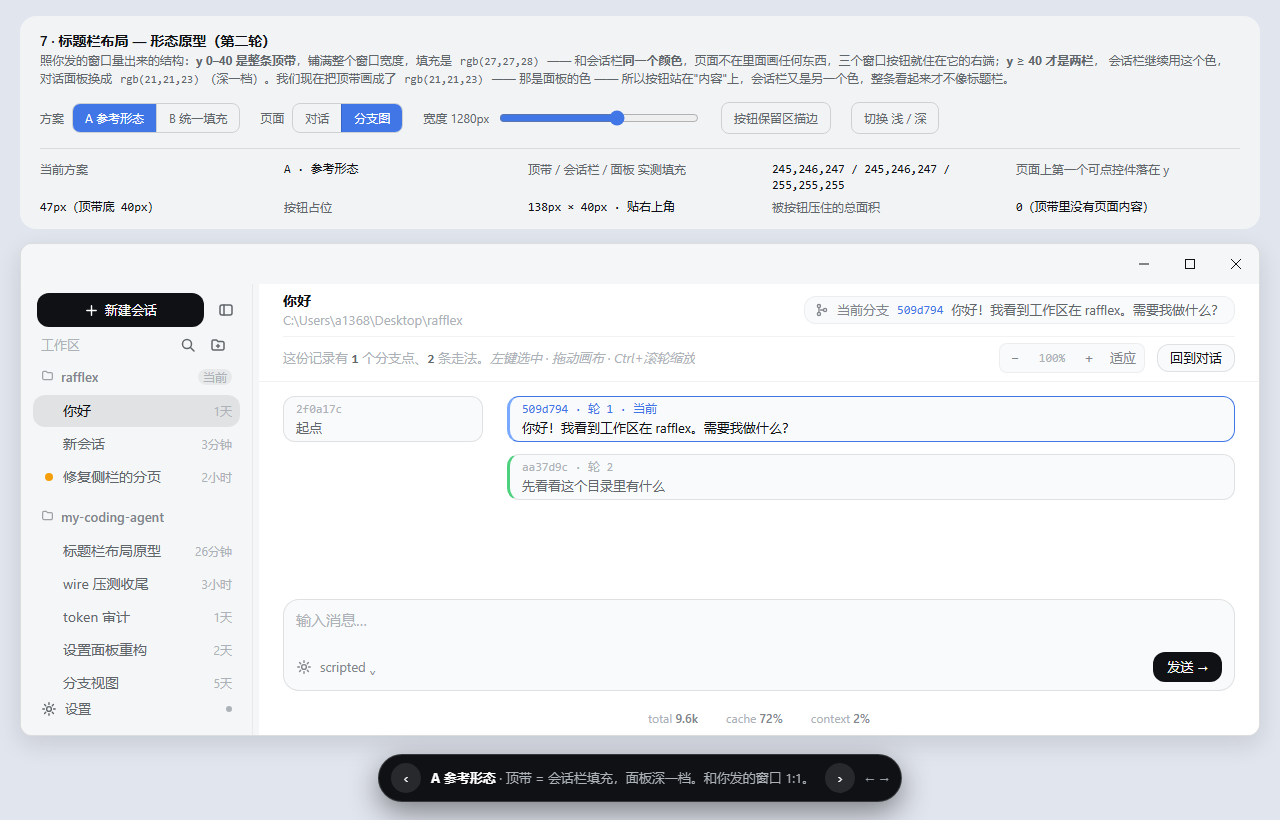
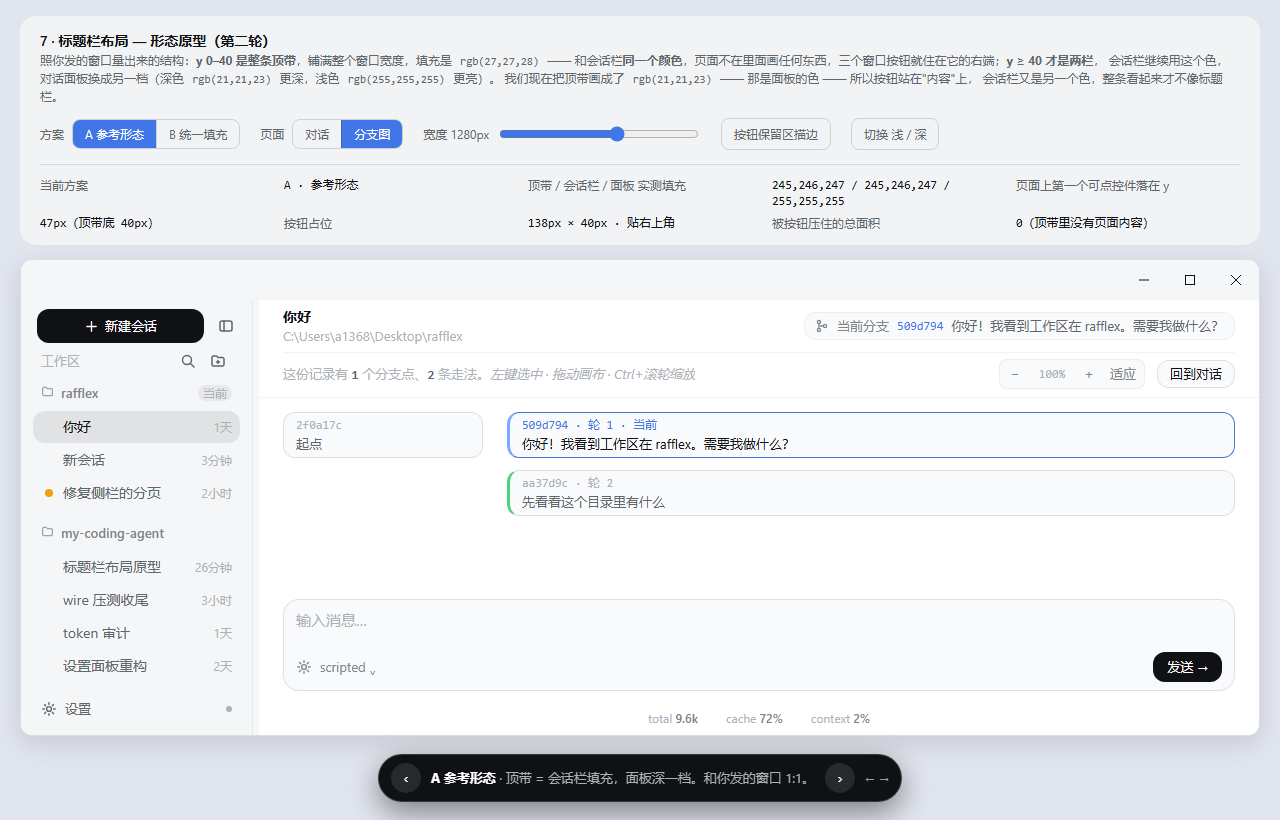
票 07 修正：第一轮的截图标签其实是对的（逐像素比对过），只有第二轮那次贴错；正文里顺带把'面板另一档'的深浅两套说法写全

diff --git a/prototype/07-titlebar.html b/prototype/07-titlebar.html
@@ -761,8 +761,9 @@ li { margin-bottom: 4px; }
 	<p class="sub">
 		照你发的窗口量出来的结构：<b>y 0–40 是整条顶带</b>，铺满整个窗口宽度，填充是 <code>rgb(27,27,28)</code>
 		—— 和会话栏<b>同一个颜色</b>，页面不在里面画任何东西，三个窗口按钮就住在它的右端；<b>y ≥ 40 才是两栏</b>，
-		会话栏继续用这个色，对话面板换成 <code>rgb(21,21,23)</code>（深一档）。我们现在把顶带画成了 <code>rgb(21,21,23)</code>
-		—— 那是面板的色 —— 所以按钮站在"内容"上，会话栏又是另一个色，整条看起来才不像标题栏。
+		会话栏继续用这个色，对话面板换成另一档（深色 <code>rgb(21,21,23)</code> 更深，浅色 <code>rgb(255,255,255)</code> 更亮）。
+		我们现在把顶带画成了 <code>rgb(21,21,23)</code> —— 那是面板的色 —— 所以按钮站在"内容"上，
+		会话栏又是另一个色，整条看起来才不像标题栏。
 	</p>
 	<div class="panel-row">
 		<div class="panel-q">

diff --git a/.scratch/ui-pass/issues/07-titlebar-prototype.md b/.scratch/ui-pass/issues/07-titlebar-prototype.md
@@ -77,7 +77,7 @@ node packages/desktop/scripts/launch.mjs --load "prototype/07-titlebar.html?vari
 
 当时的两个结论仍然成立，只是**没回答对问题**：① 按钮区 138×40 是硬占位，缩边距（D）躲不开；② `.branch-tools` 的 flex 溢出是现成的（见上第 4 条）。
 
-**教训（下次做原型先量参考物）**：两轮的差别不在方案多聪明，而在第一轮全凭文字描述想结构、第二轮逐像素量了用户给的参考窗口。另外第一轮的截图文件名一度贴错（`Get-Content`/`Start-Process` 复用同一个 stdout 重定向文件导致串行失败），提交的图有一半是同一张——第二轮改成每个变体一个唯一输出路径，并在图里核对切换器标签。
+**教训（下次做原型先量参考物）**：两轮的差别不在方案多聪明，而在第一轮全凭文字描述想结构、第二轮逐像素量了用户给的参考窗口。另外第二轮的截图第一次贴错了标签（`prototype/shot2-B.png` 里其实是 C，因为 `Start-Process` 复用了同一个 stdout 重定向文件）——改成每个变体一个唯一输出路径、并在图里核对切换器标签后才提交；第一轮那批图核对过，标签是对的。
 
 ## 顺带记一笔
 
